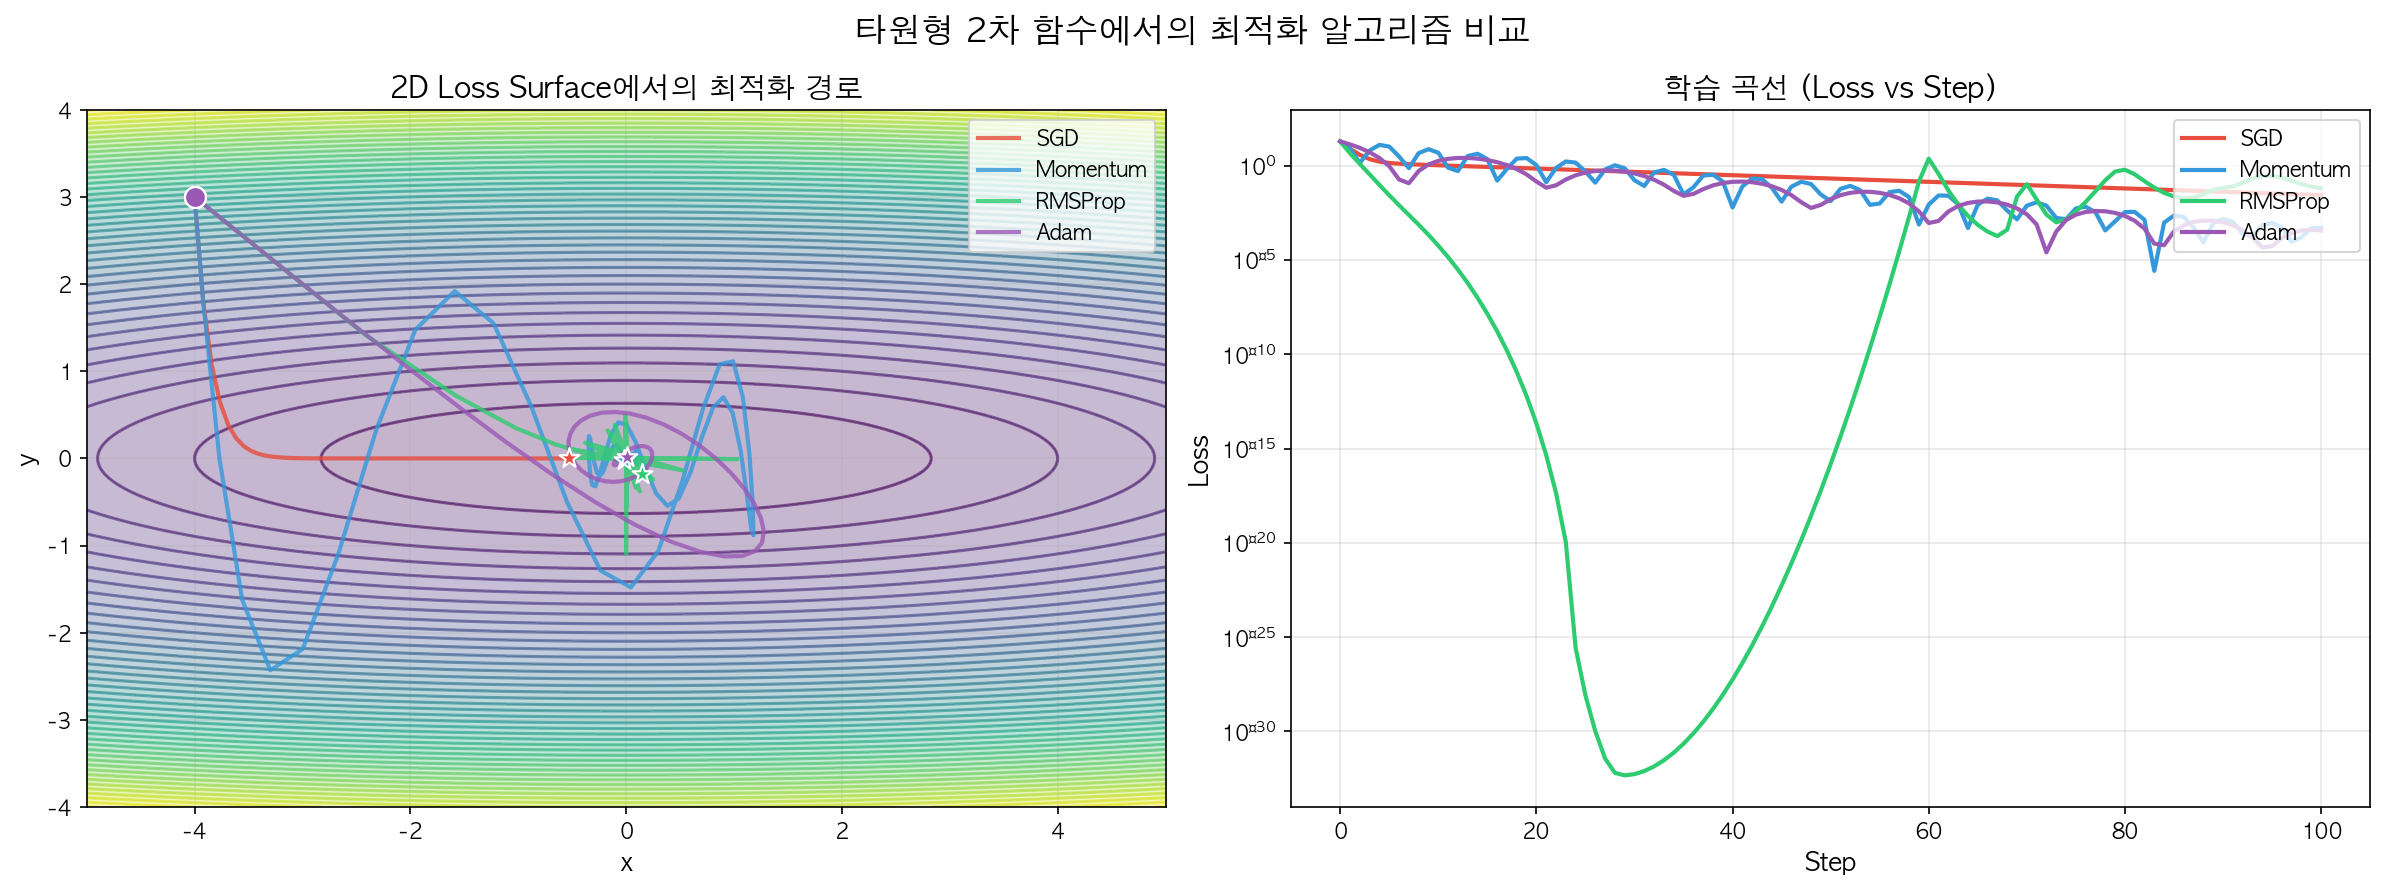
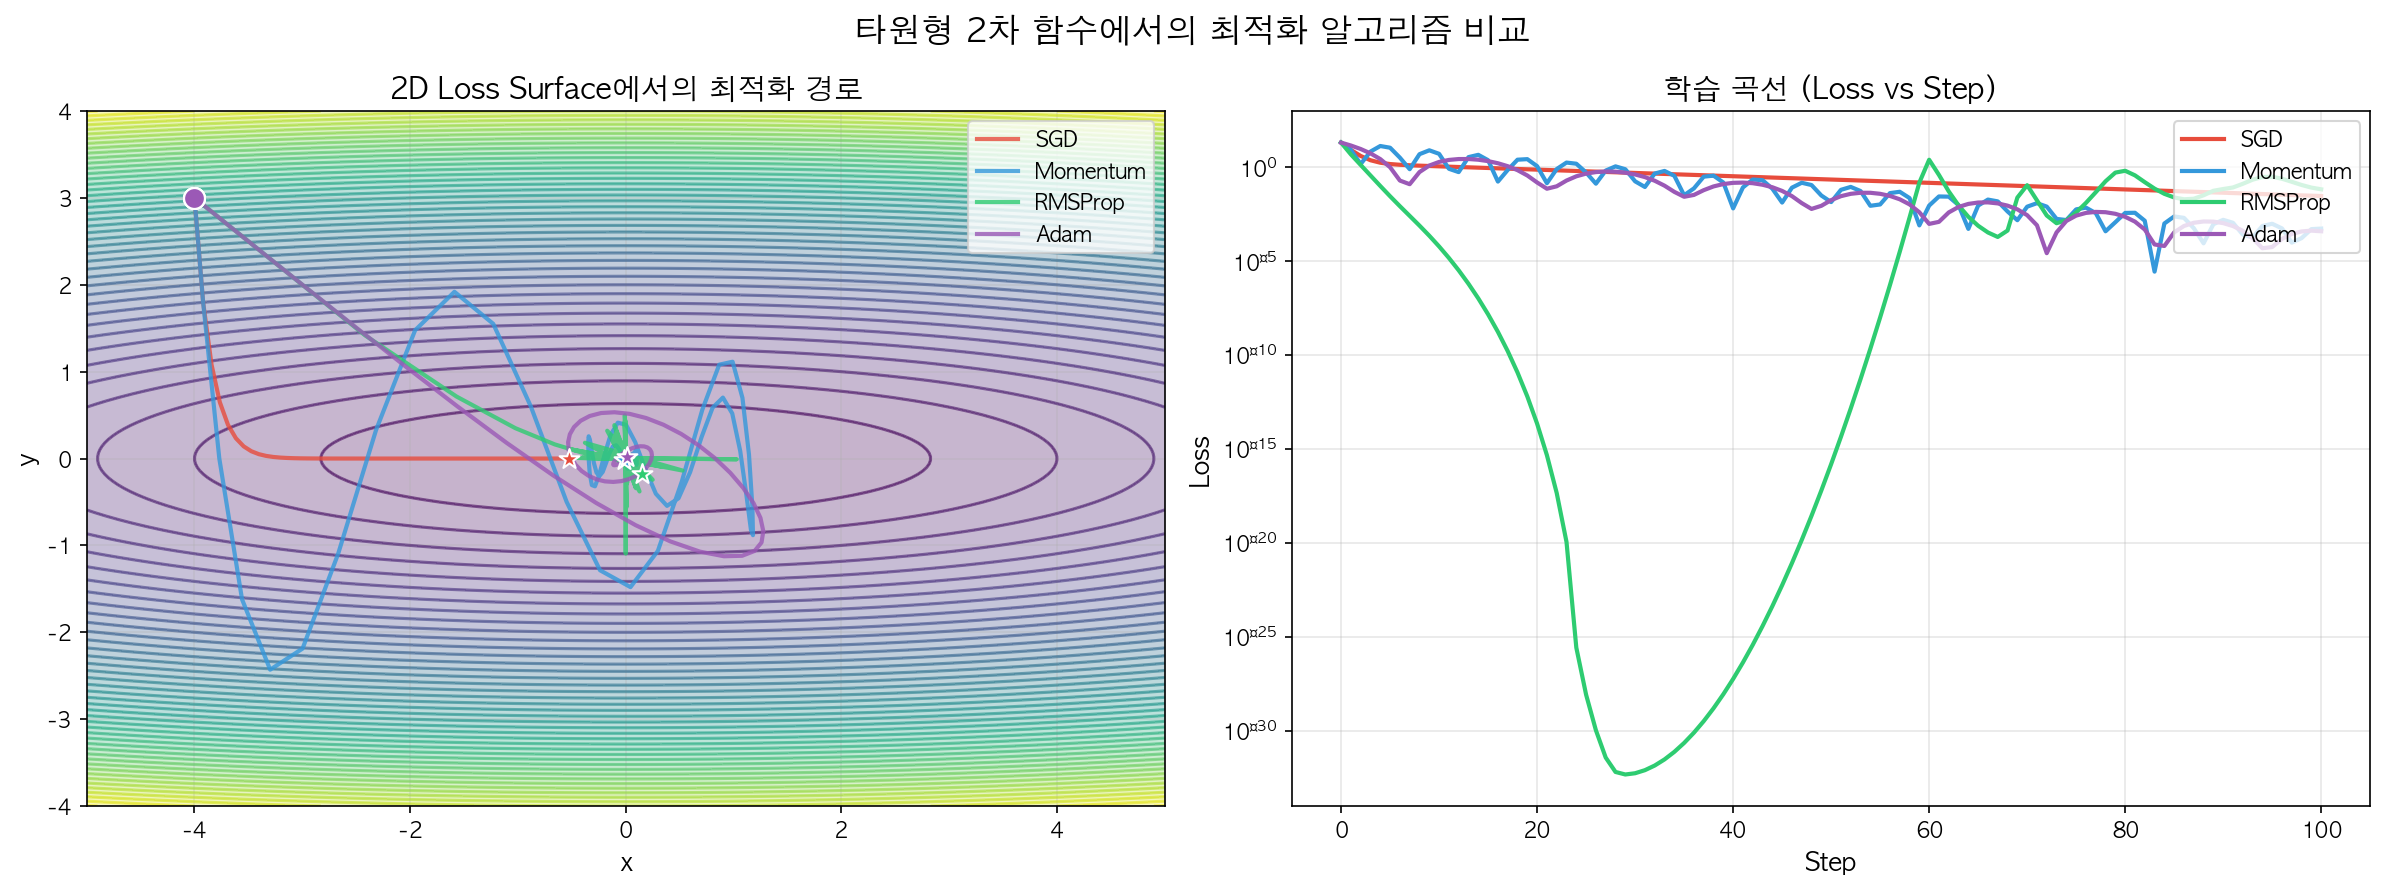
Chapter 2: 최적화 알고리즘 비교 실습 추가
- SGD, Momentum, RMSProp, Adam 직접 구현 및 시각화
- 타원형 2차 함수, Beale 함수 실험 결과
- 스크립트 경로를 상대 경로로 수정 (이식성 향상)
- 실습 노트 작성

diff --git a/02_Chapter2_인공신경망/code/optimizer_comparison.py b/02_Chapter2_인공신경망/code/optimizer_comparison.py
@@ -6,15 +6,22 @@ SGD, Momentum, RMSProp, Adam의 수렴 과정을 시각화하여 비교합니다
 
 실행 방법:
     source activate_env.sh
-    python 02_Chapter2_인공신경망/code/optimizer_comparison.py
+    python optimizer_comparison.py
 """
 
 import numpy as np
+import matplotlib
+matplotlib.use('Agg')  # GUI 없이 이미지 저장만
 import matplotlib.pyplot as plt
 from matplotlib.colors import LogNorm
 import matplotlib.animation as animation
 from typing import Callable, Tuple, List, Dict
 import os
+from pathlib import Path
+
+# 스크립트 위치 기준 경로 설정
+SCRIPT_DIR = Path(__file__).parent
+ASSETS_DIR = SCRIPT_DIR.parent / "assets"
 
 # 한글 폰트 설정 (macOS)
 plt.rcParams['font.family'] = 'AppleGothic'
@@ -279,7 +286,7 @@ def plot_optimization_paths(histories: Dict[str, Dict],
         plt.savefig(save_path, dpi=150, bbox_inches='tight')
         print(f"그래프 저장: {save_path}")
 
-    plt.show()
+    plt.close()
 
 
 def create_animation(histories: Dict[str, Dict],
@@ -346,7 +353,7 @@ def create_animation(histories: Dict[str, Dict],
         anim.save(save_path, writer='pillow', fps=20)
         print(f"애니메이션 저장: {save_path}")
 
-    plt.show()
+    plt.close()
     return anim
 
 
@@ -391,8 +398,7 @@ def run_quadratic_experiment():
     print()
 
     # 시각화
-    assets_dir = "02_Chapter2_인공신경망/assets"
-    os.makedirs(assets_dir, exist_ok=True)
+    ASSETS_DIR.mkdir(parents=True, exist_ok=True)
 
     plot_optimization_paths(
         histories,
@@ -400,7 +406,7 @@ def run_quadratic_experiment():
         title="타원형 2차 함수에서의 최적화 알고리즘 비교",
         xlim=(-5, 5),
         ylim=(-4, 4),
-        save_path=os.path.join(assets_dir, "optimizer_comparison_quadratic.png")
+        save_path=str(ASSETS_DIR / "optimizer_comparison_quadratic.png")
     )
 
     return histories
@@ -443,8 +449,7 @@ def run_beale_experiment():
     print()
 
     # 시각화
-    assets_dir = "02_Chapter2_인공신경망/assets"
-    os.makedirs(assets_dir, exist_ok=True)
+    ASSETS_DIR.mkdir(parents=True, exist_ok=True)
 
     plot_optimization_paths(
         histories,
@@ -452,7 +457,7 @@ def run_beale_experiment():
         title="Beale 함수에서의 최적화 알고리즘 비교",
         xlim=(-4.5, 4.5),
         ylim=(-3, 3),
-        save_path=os.path.join(assets_dir, "optimizer_comparison_beale.png")
+        save_path=str(ASSETS_DIR / "optimizer_comparison_beale.png")
     )
 
     return histories
@@ -497,4 +502,4 @@ if __name__ == "__main__":
     # 결과 요약
     print_summary()
 
-    print("\n그래프가 02_Chapter2_인공신경망/assets/ 폴더에 저장되었습니다.")
+    print(f"\n그래프가 {ASSETS_DIR}/ 폴더에 저장되었습니다.")

diff --git a/02_Chapter2_인공신경망/notes/최적화_알고리즘_비교_실습.md b/02_Chapter2_인공신경망/notes/최적화_알고리즘_비교_실습.md
@@ -1,0 +1,207 @@
+---
+chapter: Chapter 2
+topic: "최적화 알고리즘 비교 실습"
+date: 2026-01-20
+status: 완료
+tags:
+  - 딥러닝
+  - EasyDL
+  - 실습
+  - 최적화
+  - SGD
+  - Momentum
+  - RMSProp
+  - Adam
+---
+
+# 최적화 알고리즘 비교 실습
+
+> 📌 SGD, Momentum, RMSProp, Adam의 수렴 과정을 시각화하여 각 알고리즘의 특성을 이해한다.
+
+---
+
+## 학습 목표
+
+- [x] 각 최적화 알고리즘을 직접 구현하여 내부 동작 이해
+- [x] 2D Loss Surface에서 수렴 경로 시각화
+- [x] 학습 곡선(Loss vs Step) 비교
+- [x] 손실 함수 지형에 따른 알고리즘 성능 차이 관찰
+
+---
+
+## 실습 환경
+
+**파일 경로**: `02_Chapter2_인공신경망/code/optimizer_comparison.py`
+
+**실행 방법** (프로젝트 루트에서):
+```bash
+source activate_env.sh
+python 02_Chapter2_인공신경망/code/optimizer_comparison.py
+```
+
+또는 해당 폴더에서:
+```bash
+cd code
+python optimizer_comparison.py
+```
+
+---
+
+## 실험 1: 타원형 2차 함수
+
+### 손실 함수
+
+$$f(x, y) = 0.1x^2 + 2y^2$$
+
+- **특징**: x축은 완만하고 y축은 가파름
+- **최소점**: (0, 0)
+- **예상**: 지그재그 현상 발생 (특히 SGD)
+
+### 결과 그래프
+
+![[optimizer_comparison_quadratic.png]]
+
+### 실험 결과
+
+| 알고리즘 | 최종 위치 | 최종 Loss |
+|---------|----------|-----------|
+| SGD | (-0.53, 0.00) | 0.028141 |
+| Momentum | (-0.02, -0.02) | 0.000521 |
+| RMSProp | (+0.15, -0.18) | 0.064184 |
+| **Adam** | (+0.01, +0.01) | **0.000375** |
+
+### 분석
+
+1. **SGD**
+   - 심한 지그재그 현상
+   - 100스텝 후에도 최저점에 도달하지 못함
+   - y축으로는 빠르게 수렴하지만 x축 수렴이 매우 느림
+
+2. **Momentum**
+   - 지그재그 감소
+   - 관성을 활용해 x축 방향으로도 효과적으로 이동
+   - SGD 대비 약 50배 이상 낮은 Loss
+
+3. **RMSProp**
+   - 축별 적응적 학습률 적용
+   - 초반 진동이 있지만 점차 안정화
+   - 하이퍼파라미터에 민감
+
+4. **Adam**
+   - 가장 안정적인 수렴
+   - Momentum의 방향성 + RMSProp의 적응적 학습률
+   - 가장 낮은 최종 Loss 달성
+
+---
+
+## 실험 2: Beale 함수
+
+### 손실 함수
+
+$$f(x, y) = (1.5 - x + xy)^2 + (2.25 - x + xy^2)^2 + (2.625 - x + xy^3)^2$$
+
+- **특징**: 비대칭적이고 복잡한 지형
+- **최소점**: (3, 0.5)에서 f = 0
+- **예상**: Local minimum에 갇히기 쉬움
+
+### 결과 그래프
+
+![[optimizer_comparison_beale.png]]
+
+### 실험 결과
+
+| 알고리즘 | 최종 위치 | 최종 Loss |
+|---------|----------|-----------|
+| SGD | (-1.86, +1.38) | 1.114628 |
+| Momentum | (-1.49, +1.45) | 1.238791 |
+| RMSProp | (-2.10, +1.34) | 1.057372 |
+| Adam | (-1.51, +1.45) | 1.231699 |
+
+### 분석
+
+1. **공통점**: 모든 알고리즘이 전역 최소점 (3, 0.5)에 도달하지 못함
+2. **원인**:
+   - 시작점 (-2, 2)이 전역 최소점과 멀리 떨어져 있음
+   - 복잡한 지형에서 local minimum에 갇힘
+3. **해결책**:
+   - 더 많은 스텝 수
+   - Learning Rate 스케줄링
+   - 다양한 시작점에서 시도 (Random Restart)
+
+---
+
+## 알고리즘별 구현 핵심
+
+### SGD
+
+```python
+x_new = x - lr * dx
+y_new = y - lr * dy
+```
+
+### Momentum
+
+```python
+v = gamma * v + lr * grad
+theta = theta - v
+```
+
+- $\gamma$: 모멘텀 계수 (보통 0.9)
+- 이전 속도의 90%를 유지하며 현재 그래디언트 반영
+
+### RMSProp
+
+```python
+v = beta * v + (1 - beta) * grad**2
+theta = theta - lr * grad / (sqrt(v) + eps)
+```
+
+- 그래디언트 제곱의 지수 이동 평균으로 나눔
+- 가파른 축은 작게, 완만한 축은 크게 이동
+
+### Adam
+
+```python
+m = beta1 * m + (1 - beta1) * grad          # 1차 모멘트
+v = beta2 * v + (1 - beta2) * grad**2       # 2차 모멘트
+m_hat = m / (1 - beta1**t)                   # 편향 보정
+v_hat = v / (1 - beta2**t)                   # 편향 보정
+theta = theta - lr * m_hat / (sqrt(v_hat) + eps)
+```
+
+- Momentum (1차 모멘트) + RMSProp (2차 모멘트) + 편향 보정
+
+---
+
+## 핵심 정리
+
+| 특성 | SGD | Momentum | RMSProp | Adam |
+|-----|-----|----------|---------|------|
+| 지그재그 해결 | X | O | O | O |
+| 적응적 학습률 | X | X | O | O |
+| 편향 보정 | X | X | X | O |
+| 구현 복잡도 | 낮음 | 중간 | 중간 | 높음 |
+| 하이퍼파라미터 민감도 | 높음 | 중간 | 중간 | 낮음 |
+
+### 실무 권장사항
+
+1. **기본 선택**: Adam (대부분의 경우 좋은 성능)
+2. **일반화 성능 중시**: SGD + Momentum + Learning Rate 스케줄링
+3. **희소 그래디언트**: Adam 또는 RMSProp
+4. **하이퍼파라미터 튜닝 여유 없음**: Adam 기본값 사용
+
+---
+
+## 추가 실험 아이디어
+
+1. Learning Rate에 따른 수렴 비교
+2. 편향 보정 유무에 따른 초기 학습 안정성 비교
+3. Mini-batch 노이즈 추가 후 알고리즘 성능 비교
+4. AdamW (Weight Decay 분리) 비교
+
+---
+
+## 관련 노트
+
+- [[선형회귀]] - 최적화 알고리즘 이론
+- [[Adam_논문_요약]] - Adam 알고리즘 상세 수식
